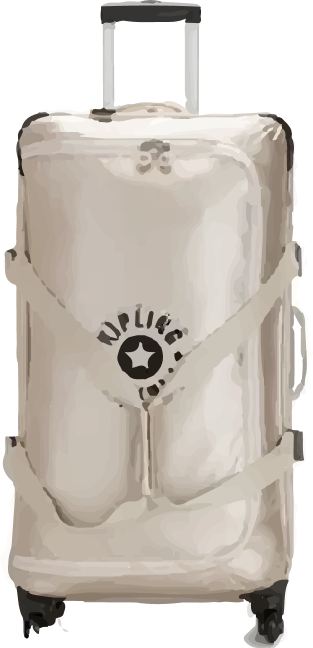
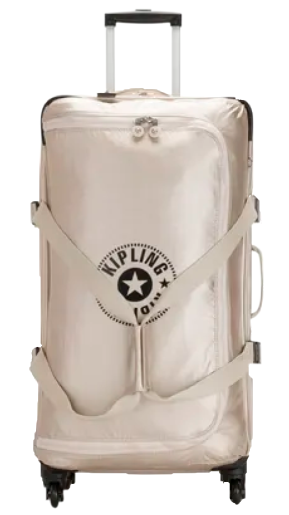
Cambié las imagenes de la maleta de viaje, modifiqué el texto de las caracteristicas

diff --git a/index.html b/index.html
@@ -52,7 +52,7 @@
 
     <article>
         <div class="portada__foto">
-            <img class="portada__foto-maleta" src="imagenes/maletaviaje (4).png">
+            <img class="portada__foto-maleta" src="imagenes/maletaviaje.png">
         </div>
     </article>
 
@@ -108,7 +108,7 @@
                                     <div class="characteristics__info">
                                         
                                         <h1 class="characteristics__titulo">Diseño unico</h1>
-                                        <p class="characteristics__contenido">El diseño de nuestras maletas te permitirá<br>hacer ueso de estas en todo momento<br>sin que el diseño o los materiales se<br>vean afectados</br> </p>
+                                        <p class="characteristics__contenido">Nuestros diseños son totalmente exclusivos,<br>perfectos para complementar tu<br>estilo ideal<br></br> </p>
                                         
                                     </div>
                                     
@@ -122,7 +122,7 @@
                                     <div class="characteristics__info">
                                         
                                         <h1 class="characteristics__titulo">Mayor espacio</h1>
-                                        <p class="characteristics__contenido">El diseño de nuestras maletas te permitirá<br>hacer ueso de estas en todo momento<br>sin que el diseño o los materiales se<br>vean afectados</br> </p>
+                                        <p class="characteristics__contenido">Lleva todo lo necesario y mucho más,<br>nuestros diseños te permiten llevar<br>lo que quieras a donde quieras<br></br> </p>
                                         
                                     </div>
                                     
@@ -200,7 +200,7 @@
                             <section class="description">
 		
                                 <article class="description__left">
-                                    <img class="description__left-image" src="imagenes/maletaespecificaciones (2).png">
+                                    <img class="description__left-image" src="imagenes/maletaespecificaciones.png">
                                 </article>
                         
                                 <article class="description__list">
